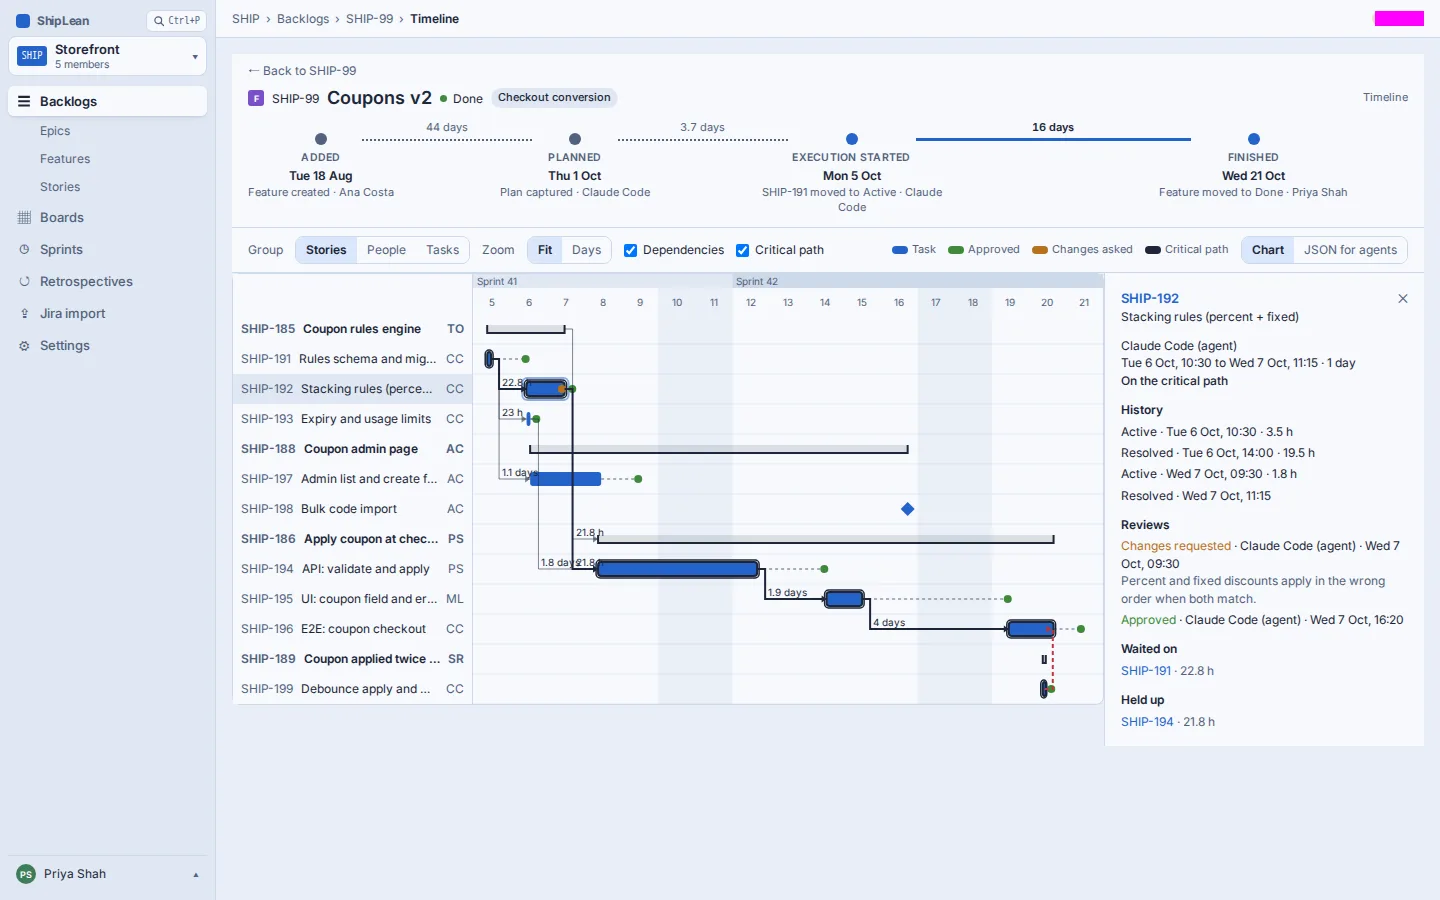
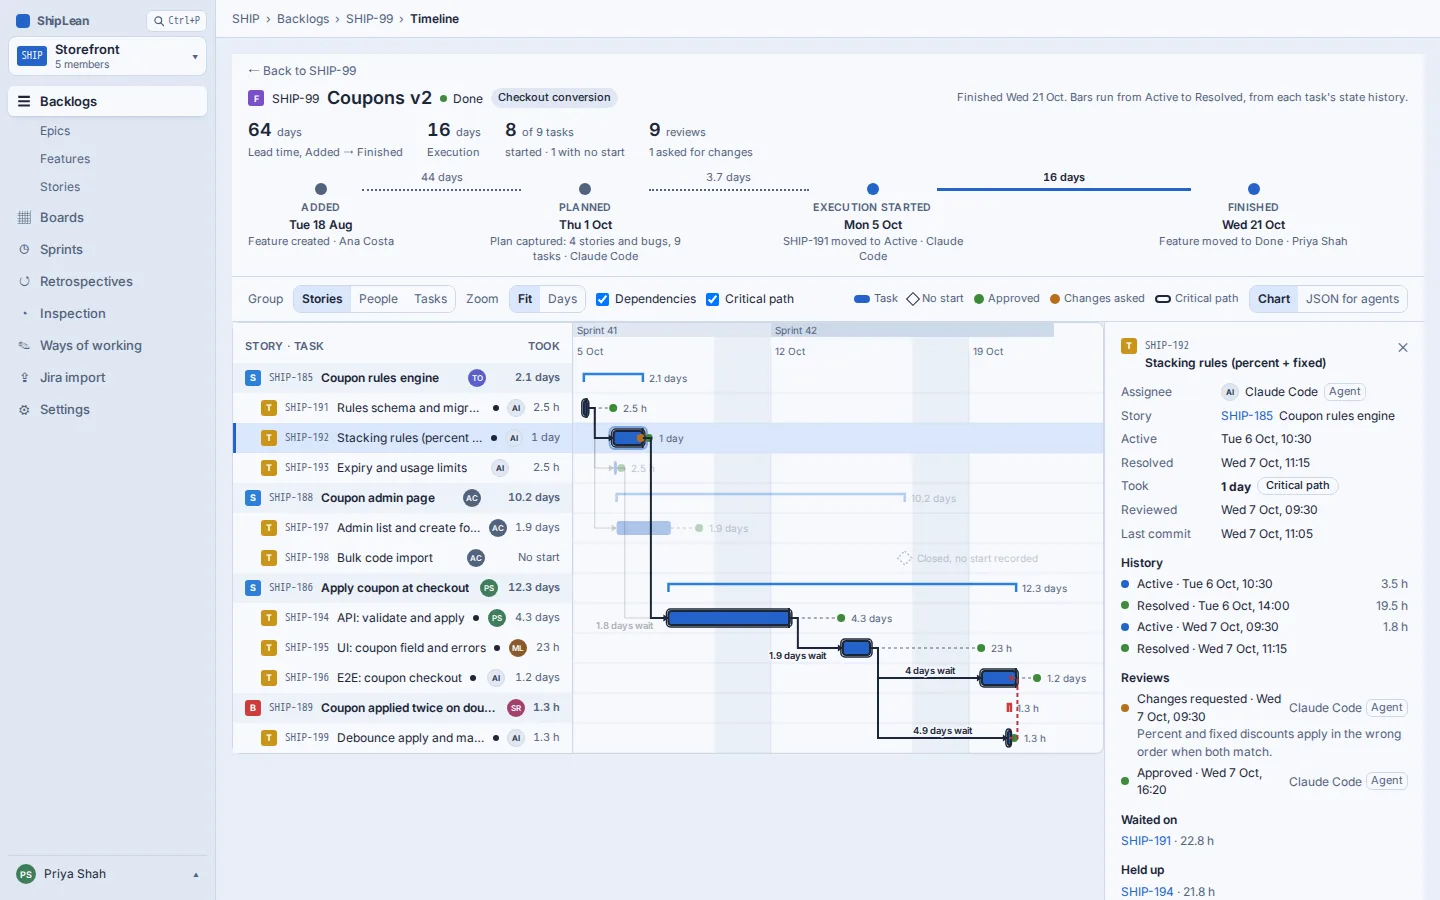
SHIP-2223: refresh the Feature timeline shots and alt text

diff --git a/README.md b/README.md
@@ -45,7 +45,7 @@ The component reads `src/assets/shots/<name>-light.webp` and `<name>-dark.webp`.
 
 The initial `ui-backlogs-overview` pair comes from the product's page-shot baselines at commit `0a9e4e139ce655f1f4ad457e7516fef3feef4bad`: `backlogs.spec.tsx-snapshots/backlog-{light,dark}-linux.png`. The pair is resized to 1440px and converted to WebP at quality 82. Keep each captured asset under 150 KB.
 
-Two illustrations use product component-test fixtures at commit `3026840aedef50b41467bc2eabe827d8cddd4a55`: `src/ShipLean.Client/src/features/asks/AsksHeader.spec.tsx-snapshots/asks-waiting-{light,dark}-linux.png` and `src/ShipLean.Client/src/features/demos/DemoStatusBand.spec.tsx-snapshots/demo-band-ready-{light,dark}-linux.png`. They contain sample data, not live accounts. Their WebP pairs live in `src/assets/product-shots/` and are rendered with `ProductShot`; refresh both themes from the product baselines when those interfaces change. Three more pairs come from the product at commit `cfbdf565137a783c2a3dafed74ccb0267fcba522` (the Feature timeline): `src/ShipLean.Client/src/pages/screenshots/featureTimeline.spec.tsx-snapshots/feature-timeline-selected-{light,dark}-linux.png`, `src/ShipLean.Client/src/features/timeline/ct/GanttChart.spec.tsx-snapshots/gantt-chart-finished-{light,dark}-linux.png` and `src/ShipLean.Client/src/features/timeline/ct/TimelineRail.spec.tsx-snapshots/timeline-rail-selected-{light,dark}-linux.png`. They are converted to `feature-timeline-selected`, `gantt-chart-finished` and `timeline-rail-selected` WebP pairs at 1440px maximum width and quality 82. Two more pairs come from the product at commit `c7701e35881f6639231a5053566caf15a868999b` (Task changes): `src/ShipLean.Client/src/pages/screenshots/taskChanges.spec.tsx-snapshots/task-changes-{light,dark}-linux.png` and `task-changes-task-{light,dark}-linux.png`. They are converted to `task-changes` and `task-changes-section` WebP pairs at 1440px maximum width and quality 82. The test masks the top bar's presence area in magenta; that box is filled with the top bar colour before conversion. One more pair, `touch-drawer`, comes from the product at commit `c7701e35881f6639231a5053566caf15a868999b`: `src/ShipLean.Client/src/touch/TouchTopBar.phone.spec.tsx-snapshots/touch-drawer-{light,dark}-linux.png` (the phone navigation drawer, 304px wide), converted to WebP at quality 82. These product-test screenshots are separate from the seeded site-capture workflow below.
+Two illustrations use product component-test fixtures at commit `3026840aedef50b41467bc2eabe827d8cddd4a55`: `src/ShipLean.Client/src/features/asks/AsksHeader.spec.tsx-snapshots/asks-waiting-{light,dark}-linux.png` and `src/ShipLean.Client/src/features/demos/DemoStatusBand.spec.tsx-snapshots/demo-band-ready-{light,dark}-linux.png`. They contain sample data, not live accounts. Their WebP pairs live in `src/assets/product-shots/` and are rendered with `ProductShot`; refresh both themes from the product baselines when those interfaces change. Three more pairs come from the product at commit `56aa8b8d37b00f3fe2e1d7a1ddc13e74adc47402` (the Feature timeline): `src/ShipLean.Client/src/pages/screenshots/featureTimeline.spec.tsx-snapshots/feature-timeline-selected-{light,dark}-linux.png`, `src/ShipLean.Client/src/features/timeline/ct/GanttChart.spec.tsx-snapshots/gantt-chart-finished-{light,dark}-linux.png` and `src/ShipLean.Client/src/features/timeline/ct/TimelineRail.spec.tsx-snapshots/timeline-rail-selected-{light,dark}-linux.png`. They are converted to `feature-timeline-selected`, `gantt-chart-finished` and `timeline-rail-selected` WebP pairs at 1440px maximum width and quality 82. Two more pairs come from the product at commit `c7701e35881f6639231a5053566caf15a868999b` (Task changes): `src/ShipLean.Client/src/pages/screenshots/taskChanges.spec.tsx-snapshots/task-changes-{light,dark}-linux.png` and `task-changes-task-{light,dark}-linux.png`. They are converted to `task-changes` and `task-changes-section` WebP pairs at 1440px maximum width and quality 82. The test masks the top bar's presence area in magenta; that box is filled with the top bar colour before conversion. One more pair, `touch-drawer`, comes from the product at commit `c7701e35881f6639231a5053566caf15a868999b`: `src/ShipLean.Client/src/touch/TouchTopBar.phone.spec.tsx-snapshots/touch-drawer-{light,dark}-linux.png` (the phone navigation drawer, 304px wide), converted to WebP at quality 82. These product-test screenshots are separate from the seeded site-capture workflow below.
 
 The Inspection pages (`ui/inspection`) use product page-shot baselines at commit `6578c588`, all under `src/ShipLean.Client/src/pages/screenshots/`: `inspectionOverview.spec.tsx-snapshots/inspection-{overview,overview-no-backfill,json}-{light,dark}-linux.png`, `inspectionLeadTime.spec.tsx-snapshots/inspection-{leadtime,leadtime-who}-{light,dark}-linux.png`, `inspectionPeriod.spec.tsx-snapshots/inspection-period-{light,dark}-linux.png`, `inspectionQuality.spec.tsx-snapshots/inspection-quality-{light,dark}-linux.png` and `inspectionCost.spec.tsx-snapshots/inspection-{cost,cost-off,cost-unavailable}-{light,dark}-linux.png`. They are converted to `inspection-overview`, `inspection-overview-low-coverage`, `inspection-json`, `inspection-lead-time`, `inspection-lead-time-who`, `inspection-period`, `inspection-quality`, `inspection-cost`, `inspection-cost-off` and `inspection-cost-unavailable` WebP pairs at 1440px maximum width and quality 82. The 1440 x 900 baselines are cropped by 38 px at the top to remove the top bar, where the test masks the presence area in magenta. The other baselines are 1280px wide and have no top bar.
 
